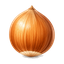
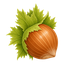
add

diff --git a/_layouts/default.html b/_layouts/default.html
@@ -11,15 +11,18 @@
   <link rel="preconnect" href="https://fonts.gstatic.com" crossorigin>
   <link href="https://fonts.googleapis.com/css2?family=Newsreader:ital,opsz,wght@0,6..72,500;0,6..72,600;1,6..72,500&family=Sora:wght@300;400;500;600&display=swap" rel="stylesheet">
 
-  <link rel="stylesheet" href="{{ '/libs/custom/my_css.css' | relative_url }}?v=paper-thumbs5">
-  <link rel="icon" type="image/png" href="{{ '/libs/icon.png' | relative_url }}?v=hazelnut-pretty">
+  <link rel="stylesheet" href="{{ '/libs/custom/my_css.css' | relative_url }}?v=hazelnut-header">
+  <link rel="icon" type="image/png" href="{{ '/libs/icon.png' | relative_url }}?v=hazelnut-match">
 </head>
 <body>
   <div class="bg" aria-hidden="true"></div>
 
   <header class="site-header">
     <div class="wrap header-row">
-      <a class="site-title" href="{{ '/' | relative_url }}">{{ site.data.main_info.name }}</a>
+      <a class="site-title" href="{{ '/' | relative_url }}">
+        <img class="site-nut" src="{{ '/assets/hazelnut.png' | relative_url }}" alt="" width="28" height="28" aria-hidden="true">
+        <span>{{ site.data.main_info.name }}</span>
+      </a>
       <nav class="site-nav" aria-label="Primary">
           <a href="{{ '/' | relative_url }}" {% if page.url == '/' %}class="is-active"{% endif %}>About</a>
           <a href="{{ '/research/' | relative_url }}" {% if page.url contains '/research' %}class="is-active"{% endif %}>Research</a>

diff --git a/libs/custom/my_css.css b/libs/custom/my_css.css
@@ -95,12 +95,22 @@ code {
 }
 
 .site-title {
+  display: inline-flex;
+  align-items: center;
+  gap: 0.45rem;
   font-family: var(--serif);
   font-size: 1.15rem;
   font-weight: 600;
   color: var(--ink);
   text-decoration: none;
   letter-spacing: -0.02em;
+}
+
+.site-nut {
+  width: 1.35em;
+  height: 1.35em;
+  flex-shrink: 0;
+  object-fit: contain;
 }
 
 .site-nav {
